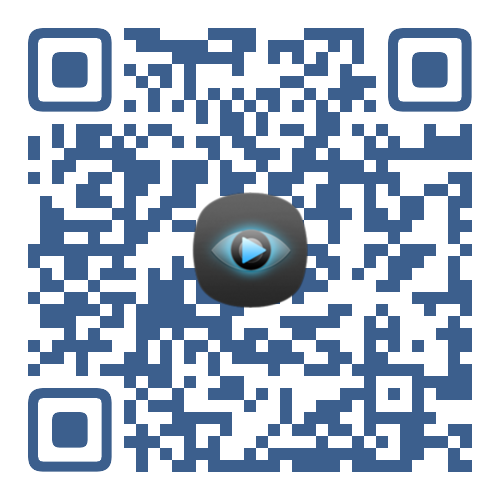
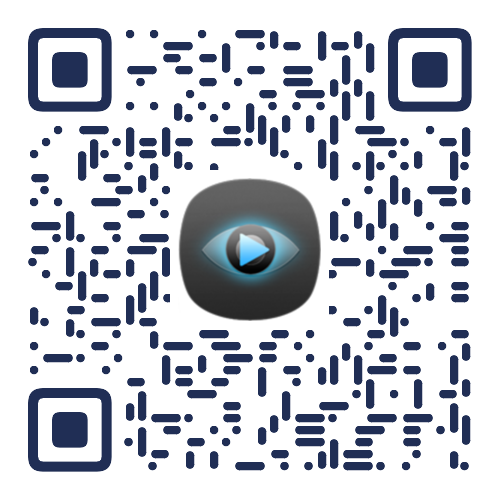
添加 软件发布页

diff --git a/video/index.html b/video/index.html
@@ -55,7 +55,7 @@
         var isWeixin = is_weixin();//调用is_weixin函数；获取到值
         var winHeight = typeof window.innerHeight != 'undefined' ?
             window.innerHeight : document.documentElement.clientHeight;
-        var weixinTip = $('<div id="weixinTip"><div class="test"><p>请点击右上角,选择"在浏览器中打开"</p><img src="./zhez.png"/></div></div>');
+        var weixinTip = $('<div id="weixinTip"><img src="./zhez.png"/></div>');
         if (isWeixin) {
             $("body").append(weixinTip);
         }
@@ -66,36 +66,23 @@
             "height": winHeight,
             "width": "100%",
             "z-index": "1000",
-            "background-color": "rgba(0,0,0,0.8)",
+            "background-color": "rgba(48,48,48,0.8)",
             "filter": "alpha(opacity=80)",
             "float": "left"
         });
-        $("#weixinTip div p").css({
-            "text-align": "right",
-            "width": "85%",
-            "margin-top": "10%",
-            "color": "#fff",
-        });
-        $("#weixinTip div").css({
-            "display": "flex",
-            "justify-content": "space-around",
-            "align-items": "center",
-            "padding-left": "4%",
-            "padding-right": "4%"
-
-        })
-        $("#weixinTip div img").css({
+        $("#weixinTip img").css({
+            "opacity": "0.8",
             "text-align": "left",
-            "width": "7%",
-            "height": "7%",
-            "margin-top": "7%",
-            "padding-left": "4%",
-            "padding-right": "4%"
+            "left": "0",
+            "top": "0",
+            "height": winHeight,
+            "width": "100%",
+            "z-index": "1000",
         })
         const data = {
             version: 'V0.0.1',
             size: '35.4MB',
-            addr: 'https://gitee.com/idweixun/idweixun/attach_files/1060195/download/app-release.apk',
+            addr: './app-release.apk',
         };
         $("#app-version").html(data.version);
         $("#app-size").html(data.size);
